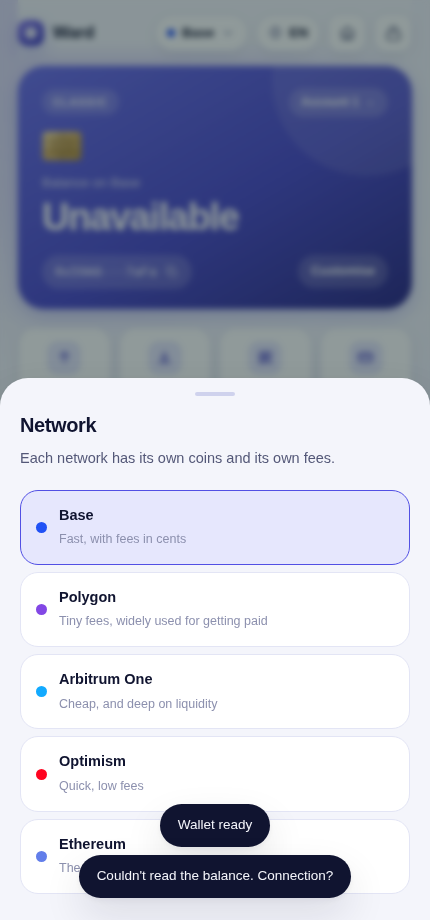
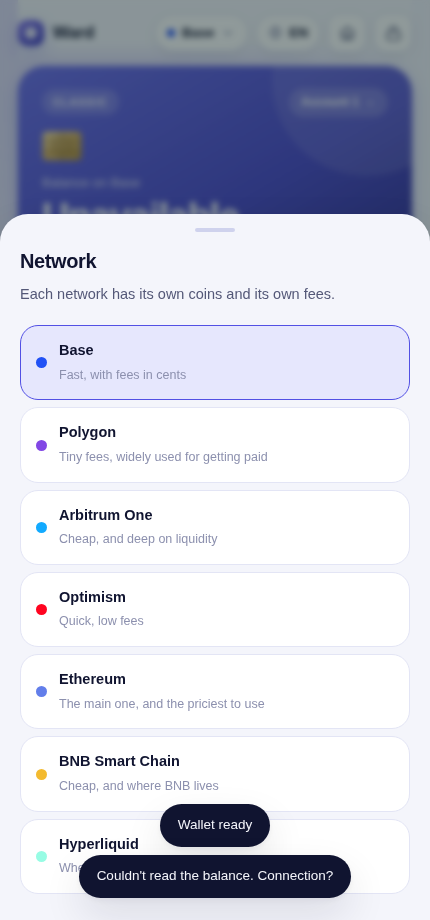
Pick the coin the card shows, and let the page show through the bar
The card screen gets a coin. ETH first, because it is what most people arrive
with, then USDC, BNB and HYPE. A coin only exists on the chain that carries it,
so choosing one moves the wallet to that network as well and the card shows
what is held there. The choice keeps, the way the name and the stickers do.

That needed two networks the wallet did not speak to: BNB Smart Chain and
Hyperliquid. Both are in, described in four languages, native coin only.

Native only is deliberate. This container cannot reach either chain, so no
token contract I put there could be checked against it, and an unchecked token
address is a way to send money somewhere nobody can reach. USDC on those two
goes in once its contract is confirmed on their own explorers, not before.
Buying a plan is a USDC payment, so it stays on the chains that have one.

Solana is not there and cannot be by adding a line. It is not an EVM chain:
different keys, different addresses, different signatures. It would be a second
wallet living beside this one, not a coin in a list.

Separately, the bar at the top of the landing page: once it lifts off and
starts floating over the page it is now frosted rather than solid, so what it
covers shows through it, blurred. A browser without backdrop-filter keeps it
opaque, because see-through with no blur is an unreadable menu.

Claude-Session: https://claude.ai/code/session_01D2g3FVtXq9SH5FDDo1ojDo

diff --git a/wallet/public/app.js b/wallet/public/app.js
@@ -65,7 +65,7 @@ const rank = p => PLAN_ORDER.indexOf(p);
    blocks — their coin just isn't worth anything, which makes them the right
    place to prove a payment works before risking money. */
 const CHAINS = window.WARD_CHAINS;
-const CHAIN_ORDER = [8453, 137, 42161, 10, 1];
+const CHAIN_ORDER = [8453, 137, 42161, 10, 1, 56, 999];
 
 const ERC20_ABI = [
   'function balanceOf(address) view returns (uint256)',
@@ -114,6 +114,7 @@ let prefs = Object.assign({ chainId: 8453, rpc: {}, accounts: [{ i: 0, name: '' 
    anything, so it is put back into shape rather than trusted. */
 if (!prefs.card || typeof prefs.card !== 'object') prefs.card = { name: '', stickers: [] };
 if (typeof prefs.card.name !== 'string') prefs.card.name = '';
+if (typeof prefs.card.coin !== 'string') prefs.card.coin = 'ETH';
 if (!Array.isArray(prefs.card.stickers)) prefs.card.stickers = [];
 if (!CHAINS[prefs.chainId]) prefs.chainId = 8453;
 if (!Array.isArray(prefs.accounts) || !prefs.accounts.length) prefs.accounts = [{ i: 0, name: '' }];
@@ -1356,6 +1357,17 @@ const blurbFor = (id, c) => {
 const STICKERS = ['⭐', '🔥', '🌙', '⚡', '🍀', '🌊', '🐉', '🎯', '💎', '🌸', '🛡', '🎧'];
 const MAX_STICKERS = 2;
 
+/* Which coin the card shows. A coin only exists on the chain that carries it,
+   so choosing one chooses a network too, and ETH is first because it is the
+   one most people arrive with. */
+const CARD_COINS = [
+  { key: 'ETH',  chainId: 8453, symbol: null },
+  { key: 'USDC', chainId: 8453, symbol: 'USDC' },
+  { key: 'BNB',  chainId: 56,   symbol: null },
+  { key: 'HYPE', chainId: 999,  symbol: null }
+];
+const cardCoin = () => CARD_COINS.find(x => x.key === prefs.card.coin) || CARD_COINS[0];
+
 function paintCardFaces() {
   const c = prefs.card;
   const name = (c.name || '').trim();
@@ -1371,10 +1383,24 @@ function paintCard() {
   const c = chain();
   $('#cardTier').textContent = PLANS[plan].name;
   $('#cardNet').textContent = c.short;
+  const pickedCoin = cardCoin();
+  const tok = pickedCoin.symbol ? c.tokens.find(t => t.symbol === pickedCoin.symbol) : null;
+  const held = tok ? balances.tokens[tok.symbol] : balances.native;
   $('#cardBalLabel').textContent = tr('w.balanceon', { net: c.short });
-  $('#cardBal').textContent = balances.native == null
+  $('#cardBal').textContent = held == null
     ? tr('w.na')
-    : fmt(trim(E.formatEther(balances.native), 6)) + ' ' + c.coin;
+    : fmt(trim(tok ? E.formatUnits(held, tok.decimals) : E.formatEther(held), 6)) + ' ' + (tok ? tok.symbol : c.coin);
+
+  const coins = $('#coinPick');
+  coins.innerHTML = '';
+  CARD_COINS.forEach(coin => {
+    const b = document.createElement('button');
+    b.type = 'button';
+    b.textContent = coin.key;
+    b.className = coin.key === pickedCoin.key ? 'on' : '';
+    b.addEventListener('click', () => pickCardCoin(coin));
+    coins.appendChild(b);
+  });
   $('#cardAddr').textContent = wallet ? short(wallet.address) : '…';
   $('#cardNameInput').value = prefs.card.name;
 
@@ -1390,6 +1416,21 @@ function paintCard() {
     pick.appendChild(b);
   });
   paintCardFaces();
+}
+
+function pickCardCoin(coin) {
+  prefs.card.coin = coin.key;
+  /* The coin lives on one chain, so the wallet follows it there rather than
+     showing a balance the selected network does not have. */
+  if (Number(prefs.chainId) !== coin.chainId && CHAINS[coin.chainId]) {
+    prefs.chainId = coin.chainId;
+    savePrefs();
+    paintNet(); fillTokenSelects(); verifyPlan();
+    refresh().then(paintCard);
+  } else {
+    savePrefs();
+  }
+  paintCard();
 }
 
 function toggleSticker(sticker) {

diff --git a/wallet/public/app-i18n.js b/wallet/public/app-i18n.js
@@ -12,6 +12,10 @@
 window.WARD_APP_I18N = {
 
 en: {
+  "w.blurb56": "Cheap, and where BNB lives",
+  "w.blurb999": "Where HYPE lives",
+  "w.cardcoin": "Coin on the card",
+  "w.cardcoinsub": "The card shows what you hold in this one. Picking it switches the network too.",
   "w.paywithother": "Pay with another wallet",
   "w.paywithothersub": "It signs and it pays. This wallet keeps the plan.",
   "w.choosewallet": "Choose a wallet",
@@ -225,6 +229,10 @@ en: {
 },
 
 es: {
+  "w.blurb56": "Barata, y donde vive BNB",
+  "w.blurb999": "Donde vive HYPE",
+  "w.cardcoin": "Moneda de la tarjeta",
+  "w.cardcoinsub": "La tarjeta enseña lo que tengas de esta. Al elegirla cambia también de red.",
   "w.paywithother": "Pagar con otra wallet",
   "w.paywithothersub": "Ella firma y ella paga. El plan se queda en esta wallet.",
   "w.choosewallet": "Elegir una wallet",
@@ -438,6 +446,10 @@ es: {
 },
 
 zh: {
+  "w.blurb56": "便宜，也是 BNB 的家",
+  "w.blurb999": "HYPE 的家",
+  "w.cardcoin": "卡面上的币",
+  "w.cardcoinsub": "卡面显示的是你手上这种币的数量。选它也会跟着切换网络。",
   "w.paywithother": "用其他钱包支付",
   "w.paywithothersub": "由它签名、由它付款。方案仍然留在这个钱包里。",
   "w.choosewallet": "选择钱包",
@@ -651,6 +663,10 @@ zh: {
 },
 
 ru: {
+  "w.blurb56": "Дёшево, и здесь живёт BNB",
+  "w.blurb999": "Здесь живёт HYPE",
+  "w.cardcoin": "Монета на карте",
+  "w.cardcoinsub": "Карта показывает, сколько у вас этой монеты. Выбор также переключает сеть.",
   "w.paywithother": "Заплатить другим кошельком",
   "w.paywithothersub": "Она подписывает и она платит. Тариф остаётся у этого кошелька.",
   "w.choosewallet": "Выберите кошелёк",

diff --git a/wallet/public/landing.css b/wallet/public/landing.css
@@ -34,13 +34,23 @@
 @media (min-width: 940px) { .nav-pill { display: flex; } .nav .brand { margin-right: 0; } .nav-in { justify-content: space-between; } .nav-pill { margin-inline: auto; } }
 
 .nav.stuck { padding-block: 10px; }
+/* Once it is floating over the page it stops being a solid lid: the page shows
+   through it, blurred, so you can see what it is covering. Frosted rather than
+   clear, because the links still have to be readable over whatever passes
+   underneath. */
 .nav.stuck .nav-in {
   max-width: 1000px;
-  background: color-mix(in srgb, var(--surface) 86%, transparent);
-  backdrop-filter: saturate(170%) blur(16px);
-  border-color: var(--line);
+  background: color-mix(in srgb, var(--surface) 62%, transparent);
+  backdrop-filter: saturate(180%) blur(20px);
+  -webkit-backdrop-filter: saturate(180%) blur(20px);
+  border-color: color-mix(in srgb, var(--line) 70%, transparent);
   box-shadow: var(--shadow-2);
   padding: 7px 7px 7px 20px;
+}
+/* A browser with no backdrop-filter would show the page straight through and
+   the links would be unreadable, so there it stays opaque. */
+@supports not (backdrop-filter: blur(1px)) {
+  .nav.stuck .nav-in { background: var(--surface); }
 }
 .nav.stuck .nav-pill { background: transparent; border-color: transparent; box-shadow: none; }
 

diff --git a/wallet/public/chains.js b/wallet/public/chains.js
@@ -44,6 +44,22 @@ window.WARD_CHAINS = {
       { symbol: 'USDT', name: 'Tether USD', decimals: 6, address: '0x94b008aA00579c1307B0EF2c499aD98a8ce58e58', color: '#26A17B' }
     ]
   },
+  56: {
+    name: 'BNB Smart Chain', short: 'BNB Chain', coin: 'BNB', color: '#F3BA2F',
+    rpc: 'https://bsc-dataseed.binance.org', explorer: 'https://bscscan.com',
+    blurb: 'Cheap, and where BNB lives',
+    /* Native BNB only. This container cannot reach the chain, so no token
+       contract here could be checked against it, and an unchecked token address
+       is a way to send money somewhere nobody can reach. Add USDC here once its
+       contract is confirmed on bscscan. */
+    tokens: []
+  },
+  999: {
+    name: 'Hyperliquid', short: 'Hyperliquid', coin: 'HYPE', color: '#97FCE4',
+    rpc: 'https://rpc.hyperliquid.xyz/evm', explorer: 'https://hyperevmscan.io',
+    blurb: 'Where HYPE lives',
+    tokens: []
+  },
   1: {
     name: 'Ethereum', short: 'Ethereum', coin: 'ETH', color: '#627EEA',
     rpc: 'https://ethereum-rpc.publicnode.com', explorer: 'https://etherscan.io',

diff --git a/wallet/public/styles.css b/wallet/public/styles.css
@@ -641,6 +641,17 @@ h3 { font-size: 17px; letter-spacing: -.015em; font-weight: 620; margin: 0 0 6px
 }
 .card-big { margin-bottom: 26px; }
 
+.coin-pick { display: flex; flex-wrap: wrap; gap: 9px; margin: 6px 0 24px; }
+.coin-pick button {
+  padding: 11px 18px; font: inherit; font-size: 14.5px; font-weight: 620; cursor: pointer;
+  background: var(--surface); border: 1px solid var(--line); border-radius: 999px;
+  color: var(--ink); box-shadow: var(--shadow-1);
+  transition: transform .16s, border-color .16s, background .16s, color .16s;
+}
+.coin-pick button:hover { transform: translateY(-2px); border-color: var(--line-2); }
+.coin-pick button.on { background: var(--brand); border-color: var(--brand); color: #fff; box-shadow: var(--shadow-brand); }
+.coin-pick button:active { transform: scale(.96); }
+
 .sticker-pick { display: flex; flex-wrap: wrap; gap: 9px; margin: 6px 0 22px; }
 .sticker-pick button {
   width: 48px; height: 48px; font-size: 24px; line-height: 1; cursor: pointer;

diff --git a/wallet/public/app.html b/wallet/public/app.html
@@ -237,6 +237,10 @@
         <input id="cardNameInput" type="text" maxlength="22" spellcheck="false" placeholder="Your name" data-i18n-ph="w.yourname">
       </label>
 
+      <h3 class="sec-title" data-i18n="w.cardcoin">Coin on the card</h3>
+      <p class="sub" data-i18n="w.cardcoinsub">The card shows what you hold in this one. Picking it switches the network too.</p>
+      <div class="coin-pick" id="coinPick"></div>
+
       <h3 class="sec-title" data-i18n="w.stickers">Stickers</h3>
       <p class="sub" data-i18n="w.stickerssub">Up to two. Tap one again to take it off.</p>
       <div class="sticker-pick" id="stickerPick"></div>
